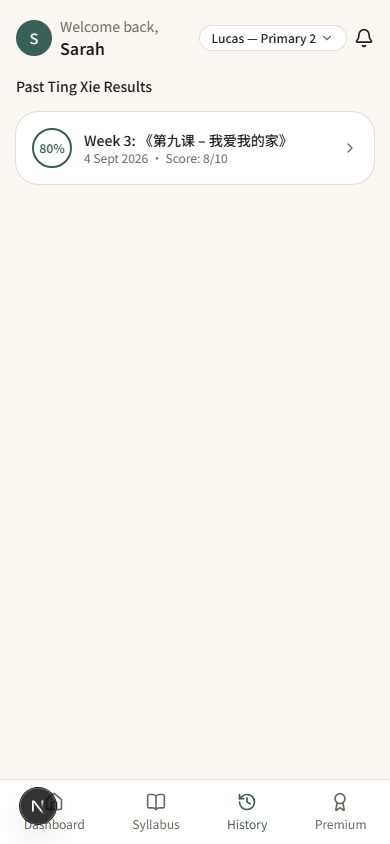
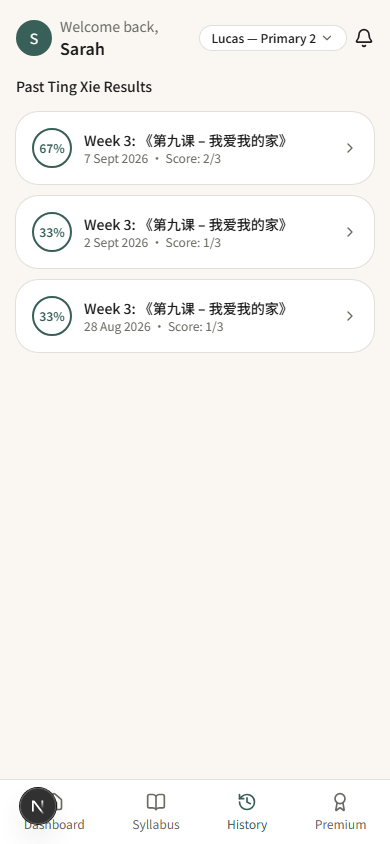
chore: refresh Results/History screenshots to show real multi-date history
Both previously only ever showed a single graded submission, so the
"Results over time" matrix always rendered with exactly one date
column - functionally correct (buildCharacterHistoryMatrix pivots on
however many distinct dates exist) but visually indistinguishable from
a feature that only supports one date. Inserted three temporary
submissions for the same lesson across three different dates directly
into the live database, re-shot both screens against that data, then
deleted the temp rows and verified 0 remain.

Claude-Session: https://claude.ai/code/session_01EnRVpHouQnX2heCuSAXR8o

diff --git a/README.md b/README.md
@@ -13,13 +13,16 @@ focus.
 |---|---|---|---|
 | ![Dashboard](docs/screenshots/dashboard.png) | ![Syllabus](docs/screenshots/syllabus.png) | ![Results](docs/screenshots/results.png) | ![History](docs/screenshots/history.png) |
 
-Results and History above show a real graded submission (score, per-character
-correction overlay, historical matrix with pinyin, and a "Practice writing"
-stroke-order animation per missed character) — captured against one
-temporary submission inserted directly into the live database for this
-screenshot, then deleted immediately after. The shipped database starts
-empty; see **Known limitations** below for why no demo data is seeded
-permanently.
+Results and History above show three real graded submissions for the same
+lesson across three different dates (score, per-character correction
+overlay, a "Results over time" matrix that now actually has history to show,
+pinyin, and a "Practice writing" stroke-order animation for the one
+character still missed) — captured against temporary submissions inserted
+directly into the live database for this screenshot, then deleted
+immediately after (verified 0 rows remaining). The worksheet photo itself is
+a synthesized demo image (not a real phone photo), built the same way for
+this screenshot only. The shipped database starts empty; see
+**Known limitations** below for why no demo data is seeded permanently.
 The Scan screen isn't pictured here — `getUserMedia`'s fake camera device
 doesn't work in this project's screenshot sandbox (a known limitation of
 that environment, not the app; see FSD §6 Phase 3), so it needs a real
